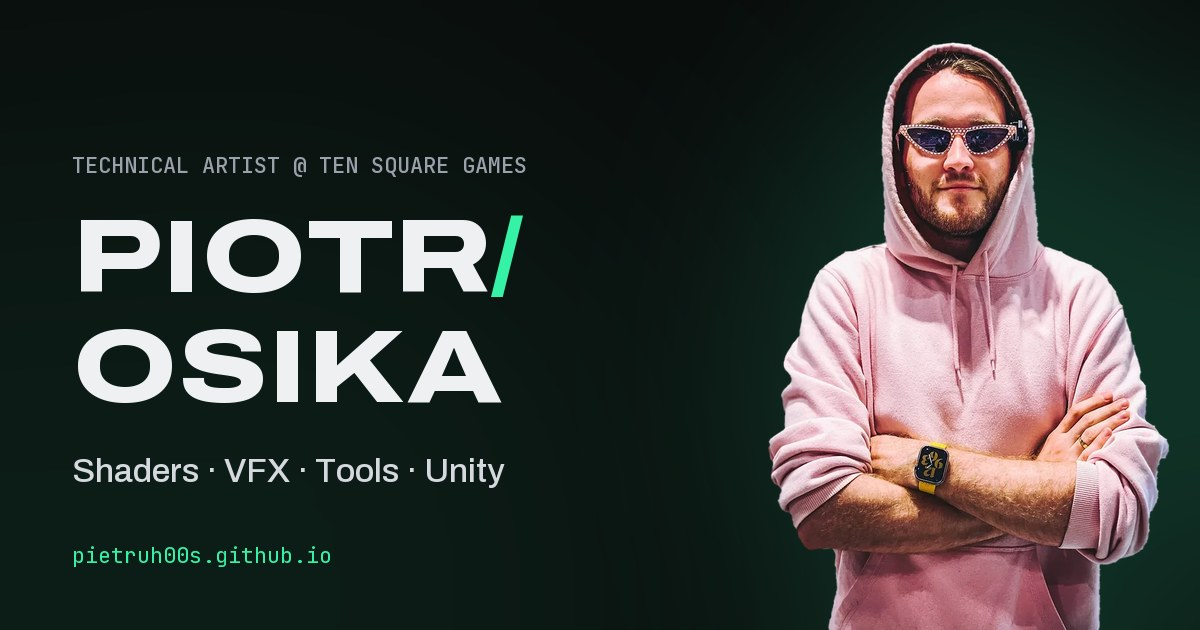
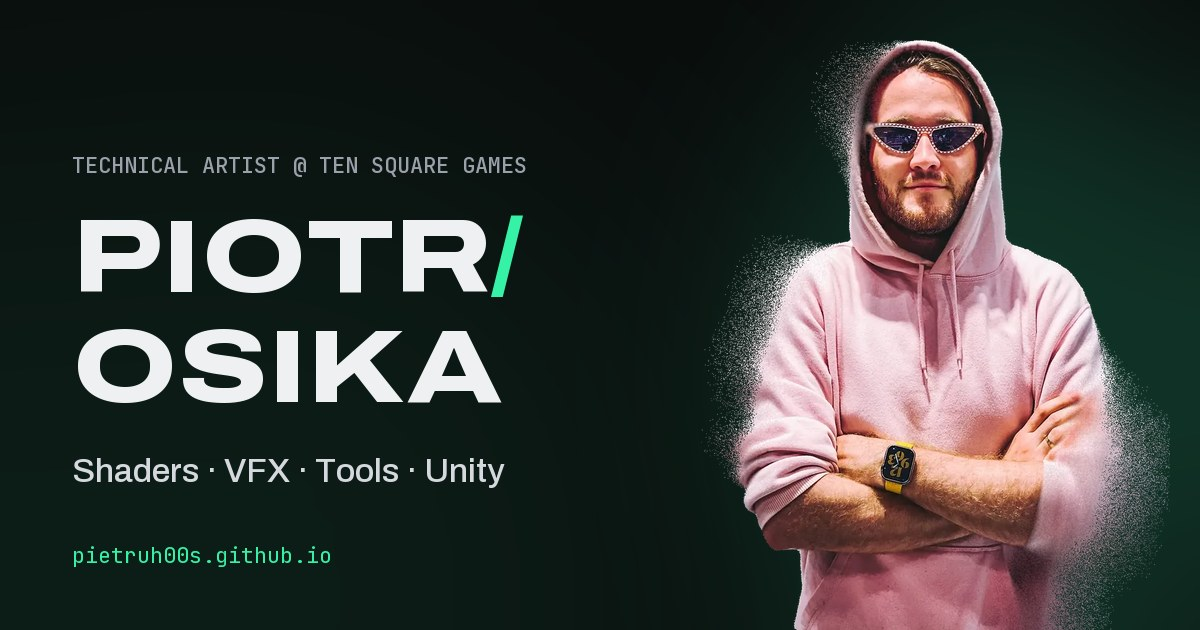
Hero: new particle-dissolve cut-out, nudged right to keep the title clear; link preview re-rendered

Changed region(s): [[0.5858, 0.0603, 0.9867, 1.0]]

diff --git a/index.html b/index.html
@@ -11,15 +11,15 @@
   <meta property="og:url" content="https://pietruh00s.github.io/">
   <meta property="og:title" content="Piotr Osika – Technical Artist">
   <meta property="og:description" content="Technical Artist with 10+ years in real-time graphics – shaders, VFX, tools and optimization in Unity. If there's anything graphics-related to do in Unity – I'm in!">
-  <meta property="og:image" content="https://pietruh00s.github.io/assets/og.jpg?v=2">
+  <meta property="og:image" content="https://pietruh00s.github.io/assets/og.jpg?v=3">
   <meta property="og:image:width" content="1200">
   <meta property="og:image:height" content="630">
   <meta property="og:image:alt" content="Piotr Osika – Technical Artist. Shaders, VFX, Tools, Unity.">
   <meta name="twitter:card" content="summary_large_image">
-  <meta name="twitter:image" content="https://pietruh00s.github.io/assets/og.jpg?v=2">
+  <meta name="twitter:image" content="https://pietruh00s.github.io/assets/og.jpg?v=3">
   <link rel="icon" href="assets/favicon.svg" type="image/svg+xml">
   <link rel="preload" href="assets/fonts/Archivo-latin-b92029.woff2" as="font" type="font/woff2" crossorigin>
-  <link rel="stylesheet" href="assets/css/style.css?v=20261029k">
+  <link rel="stylesheet" href="assets/css/style.css?v=20261105a">
 </head>
 <body>
   <svg width="0" height="0" style="position:absolute" aria-hidden="true" focusable="false">
@@ -68,7 +68,7 @@
           </div>
         </div>
       </div>
-      <img class="hero__cutout" src="assets/img/me-cutout.webp?v=3" alt="Piotr Osika in a pink hoodie and sunglasses" width="767" height="1126" fetchpriority="high">
+      <img class="hero__cutout" src="assets/img/me-cutout.webp?v=4" alt="Piotr Osika in a pink hoodie and sunglasses" width="893" height="1123" fetchpriority="high">
       <p class="hero__stats mono" aria-hidden="true"><span>shader: hero_glass.frag</span><span class="stats">-- fps</span></p>
     </section>
 
@@ -243,7 +243,7 @@
     <p class="lightbox__count mono"></p>
   </div>
 
-  <script src="assets/js/data.js?v=20261029k"></script>
-  <script src="assets/js/main.js?v=20261029k" type="module"></script>
+  <script src="assets/js/data.js?v=20261105a"></script>
+  <script src="assets/js/main.js?v=20261105a" type="module"></script>
 </body>
 </html>

diff --git a/assets/css/style.css b/assets/css/style.css
@@ -159,7 +159,7 @@ body.locked { overflow: hidden; }
 .hero__actions { display: flex; flex-wrap: wrap; gap: 12px; margin-top: 28px; }
 
 .hero__cutout {
-  position: absolute; z-index: 2; bottom: 0; right: -2vw; /* bleeds off the edge so the title tucks under the hood, not the face */
+  position: absolute; z-index: 2; bottom: 0; right: -8vw; /* bleeds off the edge so the title tucks under the hood, not the face */
   height: min(92svh, 1040px); width: auto; pointer-events: none;
   filter: drop-shadow(0 0 70px #35f2a733) drop-shadow(0 30px 40px #000a); /* rim light from the glass behind */
   -webkit-mask-image: linear-gradient(180deg, #000 80%, transparent); mask-image: linear-gradient(180deg, #000 80%, transparent);
